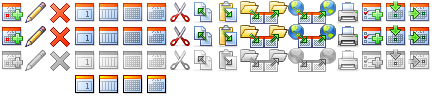
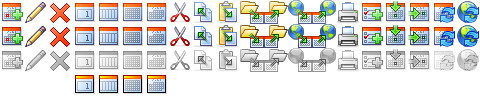
Need button and periodic interval for refreshing/publishing a calendar bug 207381, patch by Matthew Willis, image by Mark Carson, r=mvl

diff --git a/calendar/sunbird/themes/winstripe/sunbird/calendar.css b/calendar/sunbird/themes/winstripe/sunbird/calendar.css
@@ -667,6 +667,77 @@ toolbar[iconsize="small"] #calendar-publish-button:hover:active {
 }
 
 /*--------------------------------------------------------------------
+ *   Local Reload button
+ *-------------------------------------------------------------------*/
+
+/*#calendar-local-reload-button {
+        -moz-image-region: rect(0px 456px 24px 432px);
+}
+#calendar-local-reload[disabled="true"],
+#calendar-local-reload[disabled="true"]:hover,
+#calendar-local-reload[disabled="true"]:hover:active {
+        -moz-image-region: rect(48px 456px 72px 432px);
+}
+#calendar-local-reload:hover {
+        -moz-image-region: rect(24px 456px 48px 432px);
+}
+#calendar-local-reload:hover:active {
+}*/
+
+/*--------------------------------------------------------------------
+ *   Local Reload button - small
+ *-------------------------------------------------------------------*/
+
+/*toolbar[iconsize="small"] #calendar-local-reload {
+        -moz-image-region: rect(0px 224px 16px 208px);
+}
+toolbar[iconsize="small"] #calendar-local-reload[disabled="true"],
+toolbar[iconsize="small"] #calendar-local-reload[disabled="true"]:hover,
+toolbar[iconsize="small"] #calendar-local-reload[disabled="true"]:hover:active {
+        -moz-image-region: rect(32px 224px 48px 208px);
+}
+toolbar[iconsize="small"] #calendar-local-reload:hover {
+        -moz-image-region: rect(16px 224px 32px 208px);
+}
+toolbar[iconsize="small"] #calendar-local-reload:hover:active {
+}*/
+
+/*--------------------------------------------------------------------
+ *   Remote Reload button
+ *-------------------------------------------------------------------*/
+
+#calendar-remote-reload-button {
+        -moz-image-region: rect(0px 480px 24px 456px);
+}
+#calendar-remote-reload-button[disabled="true"],
+#calendar-remote-reload-button[disabled="true"]:hover,
+#calendar-remote-reload-button[disabled="true"]:hover:active {
+        -moz-image-region: rect(48px 480px 72px 456px);
+}
+#calendar-remote-reload-button:hover {
+        -moz-image-region: rect(24px 480px 48px 456px);
+}
+#calendar-remote-reload-button:hover:active {
+}
+
+/*--------------------------------------------------------------------
+ *   Remote Reload button - small
+ *-------------------------------------------------------------------*/
+
+toolbar[iconsize="small"] #calendar-remote-reload-button { 
+        -moz-image-region: rect(0px 322px 16px 306px);
+}
+toolbar[iconsize="small"] #calendar-remote-reload-button[disabled="true"],
+toolbar[iconsize="small"] #calendar-remote-reload-button[disabled="true"]:hover,
+toolbar[iconsize="small"] #calendar-remote-reload-button[disabled="true"]:hover:active {
+        -moz-image-region: rect(32px 322px 48px 306px);
+}
+toolbar[iconsize="small"] #calendar-remote-reload-button:hover {
+        -moz-image-region: rect(16px 322px 32px 306px);
+}
+toolbar[iconsize="small"] #calendar-remote-reload-button:hover:active {
+}
+/*--------------------------------------------------------------------
  *   Print button
  *-------------------------------------------------------------------*/
 

diff --git a/calendar/sunbird/base/content/hiddenWindow.js b/calendar/sunbird/base/content/hiddenWindow.js
@@ -57,7 +57,7 @@ function hiddenWindowStartup()
                        'new_server_command', 'publish_events_command', 'modify_todo_command', 
                        'edit_local_calendar_command', 'edit_server_command', 
                        'delete_server_command', 'find_new_calendar_command', 
-                       'refresh_remote_calendars', 'publish_calendar'];
+                       'reload_remote_calendars', 'publish_calendar'];
   for (var id in disabledItems) 
   {
     var broadcaster = document.getElementById(disabledItems[id]);
